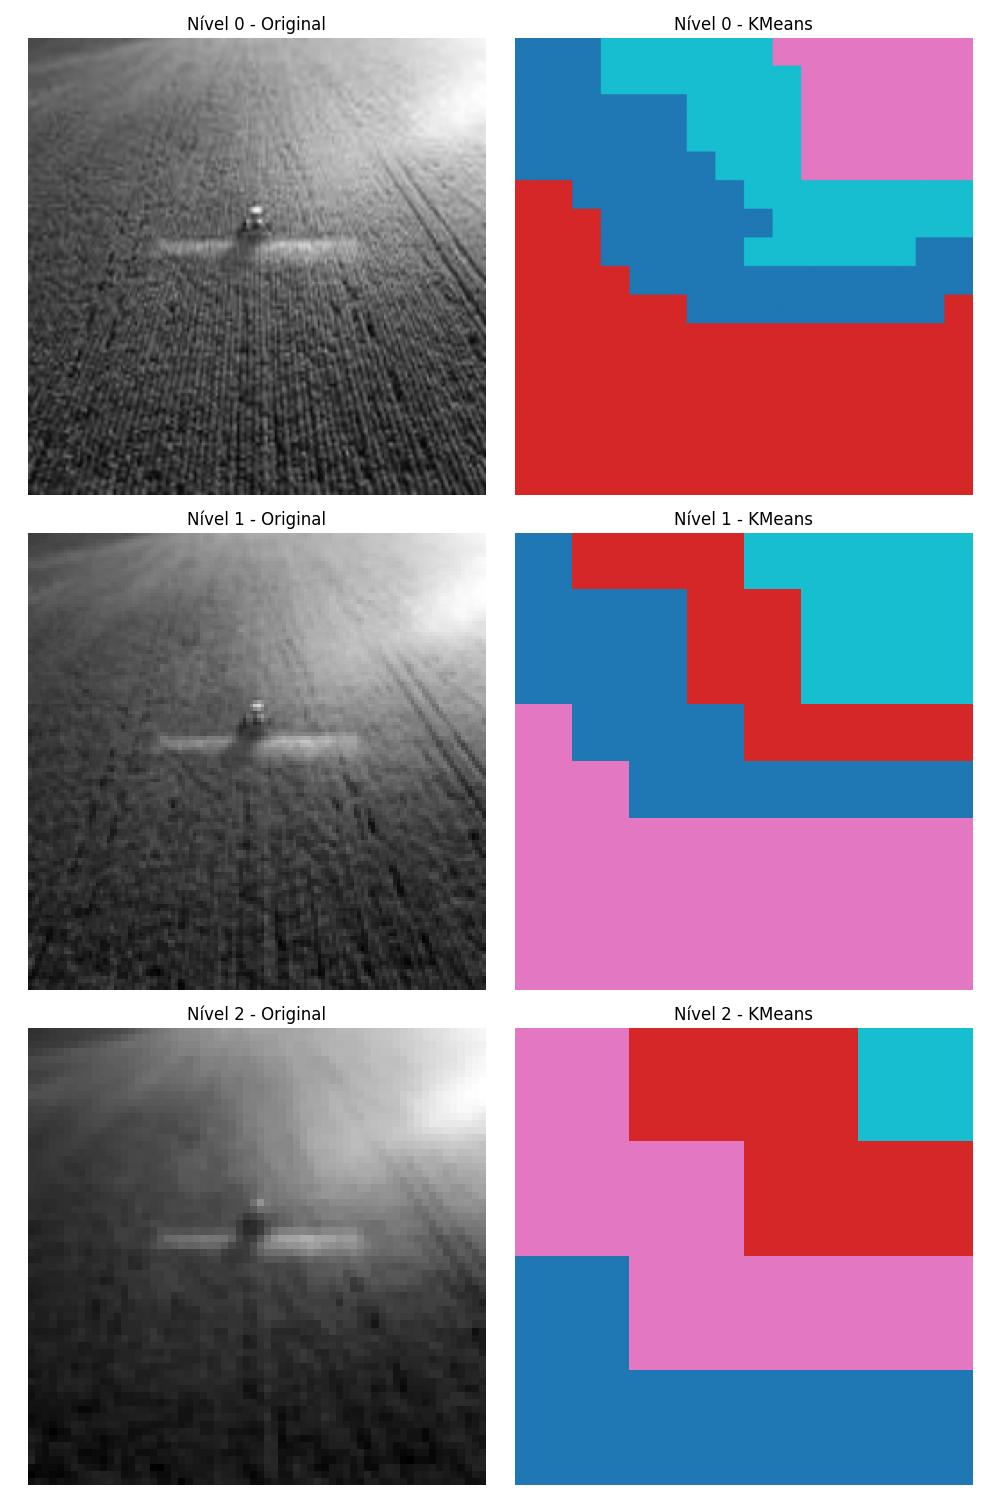
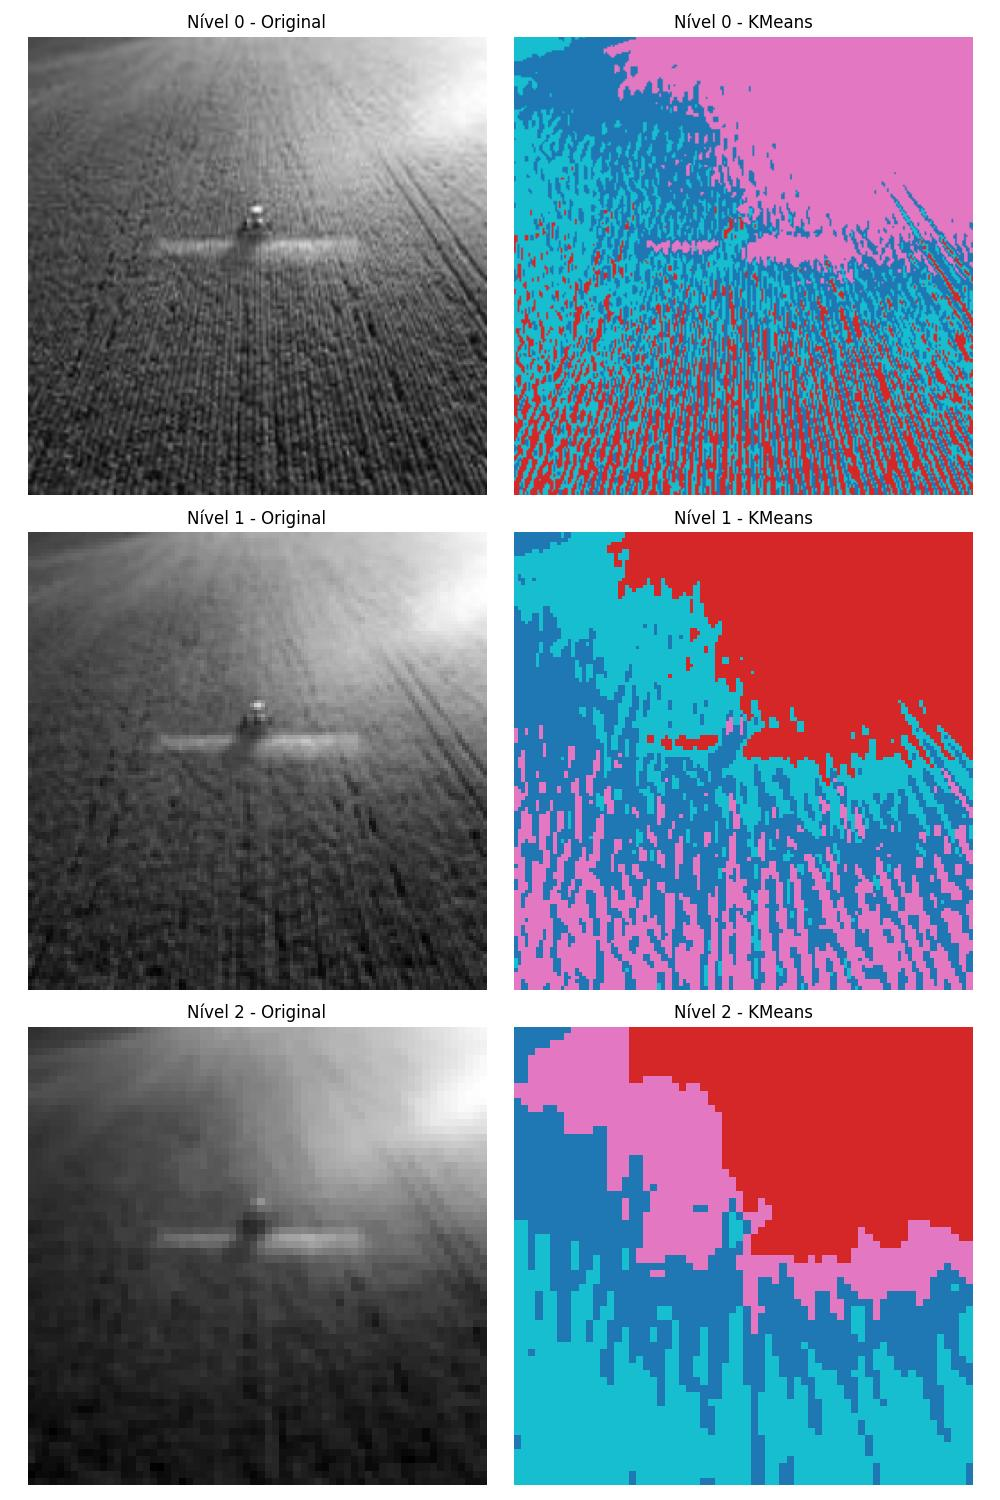
Adicionando imagens output

diff --git a/Trab1/texturasKmeans.py b/Trab1/texturasKmeans.py
@@ -39,7 +39,7 @@ for filename in os.listdir(folder_path):
 
         # Parâmetros
         n_pyramid_levels = 3  # número de níveis de escala
-        tamanho_bloco = 16
+        tamanho_bloco = 1
         n_clusters_kmeans = 4
         eps_dbscan = 10
         min_samples_dbscan = 5
